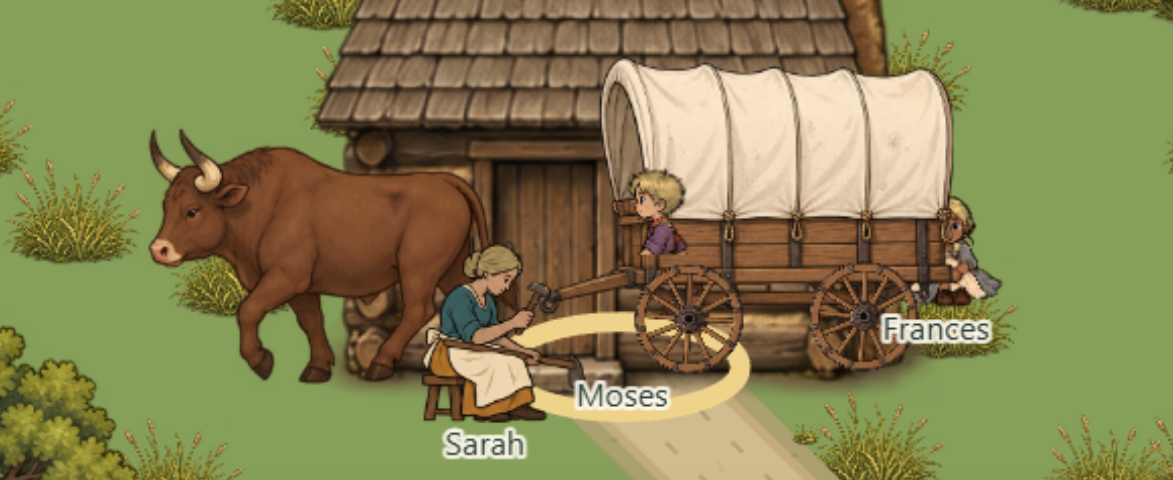
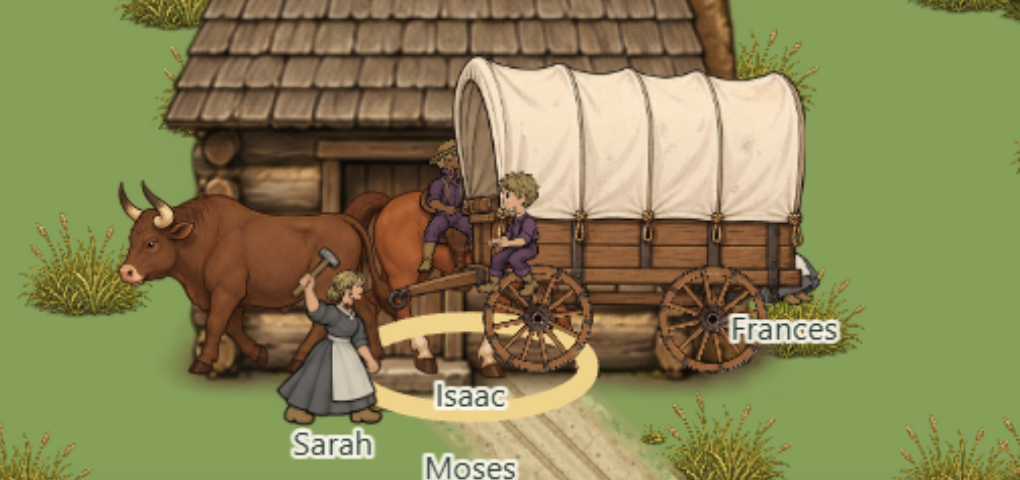
The ox drawn an ox's size: SIZE.ox 1.45 -> 1.1
Scaling pass (owner: "check that everything appears to be the correct size
relative to the players"). Measured on the frames the page draws: at 1.45 the
yard's ox (ox-brown) stood 1.46 times a grown man - its hump 2.6 m, its back
over his head - and 1.27 times the family's own longhorn cows beside it;
walking, 2.4 m at the withers against the horse's 1.6. At 1.1 the standing ox
is about 1.95 m to the hump and the walking ox about 1.8 at the withers, and
it is still as tall as the family leading it.

seatLayout's default ox follows (public/motion.js); the yoked team's place,
RIG_REACH and OPEN_TRAIN_GAP follow from SIZE. The riding and open-wagon tests'
own SIZES are set to the page's. tests/beast-scale.test.mjs holds the ox
against a man and against the longhorn cow; with 1.45 injected back the whole
suite failed those two tests and nothing else.

npm test: 2539 tests, 2503 pass, 0 fail, 36 skipped. Browser proofs (same
computer, headless Chrome): test:yard-layout 7 PASS, test:riding 16 PASS;
their evidence is refreshed.

diff --git a/public/app.js b/public/app.js
@@ -2096,7 +2096,12 @@ const SIZE = {
   cabin: CABIN_PEOPLE, settlementCabin: 2.5, camp: 2.1,
   timberTree: 1.95, loneTree: 2.05, sapling: 1.15, scrub: 1.0, stump: 1.0, logPile: 1.2,
   tuft: .6, rock: .5, crop: .95,
-  ox: 1.45, horse: 1.5, wagon: 1.55,
+  // The ox 1.1 (scaling pass, 2026-10-27; tests/beast-scale.test.mjs): at 1.45 the yard's ox stood 1.46 times a grown man, its
+  // hump 2.6 m and its back over his head, and 1.27 times the family's longhorn cows (`HERD_SIZE`); now about 1.95 m to the hump
+  // standing and 1.8 at the withers walking - a big ox, a little over the horse - and still as tall as the family leading it.
+  // ceiling: one number for every ox frame; Astra's standing ox is a little bulkier in its frame than her walking one, and the ox
+  // inside Claude's wagon rig is drawn by the wagon's height, not this (docs/ART_REQUESTS.md S1).
+  ox: 1.1, horse: 1.5, wagon: 1.55,
   // The Yellow Stone: a hundred and thirty feet of steamboat, drawn taller than the cabins on the bank she lies against.
   steamboat: 4.2,
   // The quarry's own sizes are `QUARRY_SIZE`, which is by species: a turkey is not a deer's height.

diff --git a/public/motion.js b/public/motion.js
@@ -499,7 +499,7 @@ export function rigReach(sizes = {}) {
  * driver on its box; coming toward the camera the rig, the driver, and the ox again in front of them (the rig drawn a second
  * time only up to the yoke, `band`); going away the driver first, behind the canvas, and the rig over them.
  */
-export function seatLayout(seat, direction = 'e', { horse = 1.5, ox = 1.45, wagon = 1.55 } = {}, rider = 1, delivered = 0, rig = false, open = false) {
+export function seatLayout(seat, direction = 'e', { horse = 1.5, ox = 1.1, wagon = 1.55 } = {}, rider = 1, delivered = 0, rig = false, open = false) {
   const vertical = direction === 'n' || direction === 's';
   // The rider's feet are put where their hip lands on the seat, and they are cut a little below the hip.
   const sitting = (seatHeight, dx = 0) => ({ part: 'rider', dx, dy: -seatHeight + SEAT.hip * rider, height: rider, shown: 1 - SEAT.hip + SEAT.overlap });
